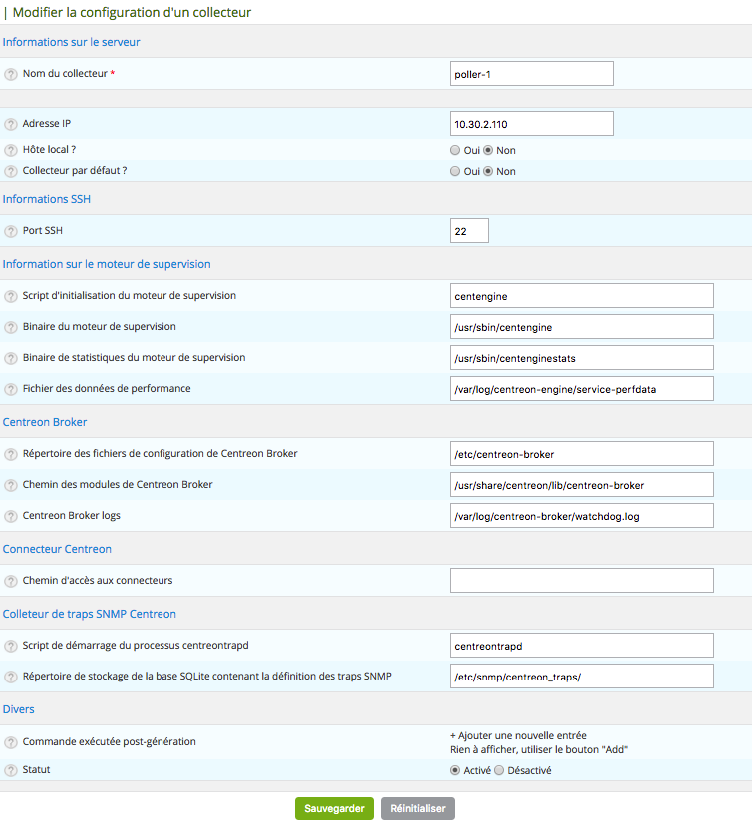
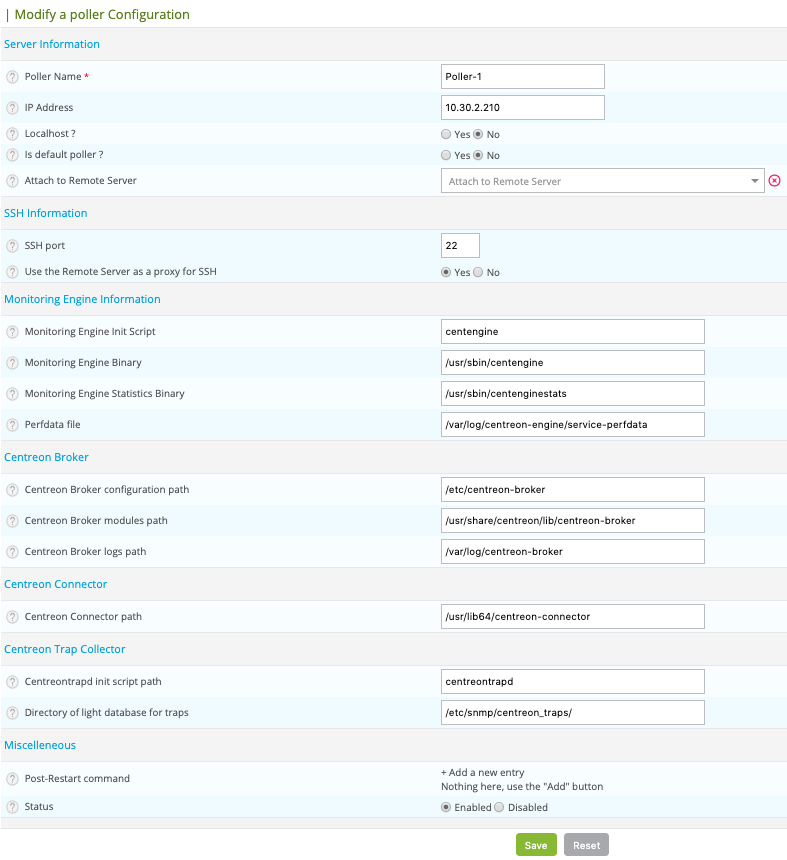
enh(remote-server): allow to use direct ssh connection to poller from central (#7680)
* enh(sql): add new field for nagios_server table
* enh(update): add new database field on update
* enh(form): add an option to make direct link to poller from central
* enh(centcore): use new option in centcore
* enh(doc): update documentation to explain this functionality

diff --git a/www/include/configuration/configServers/formServers.php b/www/include/configuration/configServers/formServers.php
@@ -155,14 +155,14 @@ if (strcmp($serverType, 'remote') ==  0) {
     );
     $form->addElement('select', 'http_method', _("HTTP Method"), $aMethod);
     $form->addElement('text', 'http_port', _("HTTP Port"), $attrsText3);
-    $Tab = array();
-    $Tab[] = $form->createElement('radio', 'no_check_certificate', null, _("Yes"), '1');
-    $Tab[] = $form->createElement('radio', 'no_check_certificate', null, _("No"), '0');
-    $form->addGroup($Tab, 'no_check_certificate', _("Do not check SSL certificate validation"), '&nbsp;');
-    $Tab = array();
-    $Tab[] = $form->createElement('radio', 'no_proxy', null, _("Yes"), '1');
-    $Tab[] = $form->createElement('radio', 'no_proxy', null, _("No"), '0');
-    $form->addGroup($Tab, 'no_proxy', _("Do not use proxy defined in global configuration"), '&nbsp;');
+    $tab = array();
+    $tab[] = $form->createElement('radio', 'no_check_certificate', null, _("Yes"), '1');
+    $tab[] = $form->createElement('radio', 'no_check_certificate', null, _("No"), '0');
+    $form->addGroup($tab, 'no_check_certificate', _("Do not check SSL certificate validation"), '&nbsp;');
+    $tab = array();
+    $tab[] = $form->createElement('radio', 'no_proxy', null, _("Yes"), '1');
+    $tab[] = $form->createElement('radio', 'no_proxy', null, _("No"), '0');
+    $form->addGroup($tab, 'no_proxy', _("Do not use proxy defined in global configuration"), '&nbsp;');
 }
 
 /*
@@ -174,6 +174,10 @@ $form->addElement('text', 'ns_ip_address', _("IP Address"), $attrsText);
 $form->addElement('text', 'init_script', _("Monitoring Engine Init Script"), $attrsText2);
 if (strcmp($serverType, 'poller') ==  0) {
     $form->addElement('select2', 'remote_id', _('Attach to Remote Server'), array(), $attrPoller1);
+    $tab = array();
+    $tab[] = $form->createElement('radio', 'remote_server_centcore_ssh_proxy', null, _("Yes"), '1');
+    $tab[] = $form->createElement('radio', 'remote_server_centcore_ssh_proxy', null, _("No"), '0');
+    $form->addGroup($tab, 'remote_server_centcore_ssh_proxy', _("Use the Remote Server as a proxy for SSH"), '&nbsp;');
 }
 $form->addElement('text', 'nagios_bin', _("Monitoring Engine Binary"), $attrsText2);
 $form->addElement('text', 'nagiostats_bin', _("Monitoring Engine Statistics Binary"), $attrsText2);
@@ -181,20 +185,20 @@ $form->addElement('text', 'nagios_perfdata', _("Perfdata file"), $attrsText2);
 
 $form->addElement('text', 'ssh_port', _("SSH port"), $attrsText3);
 
-$Tab = array();
-$Tab[] = $form->createElement('radio', 'localhost', null, _("Yes"), '1');
-$Tab[] = $form->createElement('radio', 'localhost', null, _("No"), '0');
-$form->addGroup($Tab, 'localhost', _("Localhost ?"), '&nbsp;');
+$tab = array();
+$tab[] = $form->createElement('radio', 'localhost', null, _("Yes"), '1');
+$tab[] = $form->createElement('radio', 'localhost', null, _("No"), '0');
+$form->addGroup($tab, 'localhost', _("Localhost ?"), '&nbsp;');
 
-$Tab = array();
-$Tab[] = $form->createElement('radio', 'is_default', null, _("Yes"), '1');
-$Tab[] = $form->createElement('radio', 'is_default', null, _("No"), '0');
-$form->addGroup($Tab, 'is_default', _("Is default poller ?"), '&nbsp;');
+$tab = array();
+$tab[] = $form->createElement('radio', 'is_default', null, _("Yes"), '1');
+$tab[] = $form->createElement('radio', 'is_default', null, _("No"), '0');
+$form->addGroup($tab, 'is_default', _("Is default poller ?"), '&nbsp;');
 
-$Tab = array();
-$Tab[] = $form->createElement('radio', 'ns_activate', null, _("Enabled"), '1');
-$Tab[] = $form->createElement('radio', 'ns_activate', null, _("Disabled"), '0');
-$form->addGroup($Tab, 'ns_activate', _("Status"), '&nbsp;');
+$tab = array();
+$tab[] = $form->createElement('radio', 'ns_activate', null, _("Enabled"), '1');
+$tab[] = $form->createElement('radio', 'ns_activate', null, _("Disabled"), '0');
+$form->addGroup($tab, 'ns_activate', _("Status"), '&nbsp;');
 
 /*
  * Extra commands
@@ -262,7 +266,8 @@ if (isset($_GET["o"]) && $_GET["o"] == SERVER_ADD) {
             "centreonbroker_module_path" => "/usr/share/centreon/lib/centreon-broker",
             "centreonbroker_logs_path" => "/var/log/centreon-broker",
             "init_script_centreontrapd" => "centreontrapd",
-            "snmp_trapd_path_conf" => "/etc/snmp/centreon_traps/"
+            "snmp_trapd_path_conf" => "/etc/snmp/centreon_traps/",
+            "remote_server_centcore_ssh_proxy" => '1'
         )
     );
 } else {

diff --git a/www/include/configuration/configServers/DB-Func.php b/www/include/configuration/configServers/DB-Func.php
@@ -368,7 +368,8 @@ function insertServer(array $data): int
     $rq = "INSERT INTO `nagios_server` (`name` , `localhost`, `ns_ip_address`, `ssh_port`, `nagios_bin`," .
         " `nagiostats_bin`, `init_system`, `init_script`, `init_script_centreontrapd`, `snmp_trapd_path_conf`, " .
         "`nagios_perfdata` , `centreonbroker_cfg_path`, `centreonbroker_module_path`, `centreonconnector_path`, " .
-        "`ssh_private_key`, `is_default`, `ns_activate`, `centreonbroker_logs_path`, `remote_id`) ";
+        "`ssh_private_key`, `is_default`, `ns_activate`, `centreonbroker_logs_path`, `remote_id`, " .
+        "`remote_server_centcore_ssh_proxy`) ";
     $rq .= "VALUES (";
     isset($data["name"]) && $data["name"] != null
         ? $rq .= "'" . htmlentities(trim($data["name"]), ENT_QUOTES, "UTF-8") . "', "
@@ -426,7 +427,14 @@ function insertServer(array $data): int
         : $rq .= "NULL,";
     isset($data["remote_id"]) && $data["remote_id"] != null
         ? $rq .= "'" . htmlentities(trim($data["remote_id"]), ENT_QUOTES, "UTF-8") . "' "
-        : $rq .= "NULL";
+        : $rq .= "NULL, ";
+    isset($data["remote_server_centcore_ssh_proxy"]["remote_server_centcore_ssh_proxy"])
+        && $data["remote_server_centcore_ssh_proxy"]["remote_server_centcore_ssh_proxy"] != null
+        ? $rq .= "'" . htmlentities(
+            $data["remote_server_centcore_ssh_proxy"]["remote_server_centcore_ssh_proxy"],
+            ENT_QUOTES,
+            "UTF-8"
+        ) . "'  " : $rq .= "NULL";
     $rq .= ")";
 
     $pearDB->query($rq);
@@ -443,7 +451,7 @@ function insertServer(array $data): int
     $fields = CentreonLogAction::prepareChanges($data);
     $centreon->CentreonLogAction->insertLog(
         "poller",
-        isset($poller["MAX(id)"]) ? $poller["MAX(id)"] : null,
+        $poller['last_id'] ?? null,
         CentreonDB::escape($data["name"]),
         "a",
         $fields
@@ -620,7 +628,9 @@ function updateServer(int $id, $data): void
     isset($data["remote_id"]) && $data["remote_id"] != null
         ? $rq .= "remote_id = '" . htmlentities(trim($data["remote_id"]), ENT_QUOTES, "UTF-8") . "',  "
         : $rq .= "remote_id = NULL, ";
-    $rq .= "ns_activate = '" . $data["ns_activate"]["ns_activate"] . "' ";
+    $rq .= "ns_activate = '" . $data["ns_activate"]["ns_activate"] . "', ";
+    $rq .= "remote_server_centcore_ssh_proxy = '"
+        . $data["remote_server_centcore_ssh_proxy"]["remote_server_centcore_ssh_proxy"] . "' ";
     $rq .= "WHERE id = '" . $id . "'";
     $pearDB->query($rq);
 

diff --git a/www/include/configuration/configServers/help.php b/www/include/configuration/configServers/help.php
@@ -44,5 +44,11 @@ $help['no_check_certificate'] = dgettext(
 );
 $help['no_proxy'] = dgettext(
     "help",
-    "If checked, it won't  use the proxy configured in 'Administration > Parameters > Centreon UI' to connect to the Remote Server."
+    "If checked, it won't use the proxy configured in 'Administration > Parameters > Centreon UI' "
+        . "to connect to the Remote Server."
+);
+$help['remote_server_centcore_ssh_proxy'] = dgettext(
+    "help",
+    "If checked, the Central server will send configuration and external commands directly to the poller "
+        . "and will not use the Remote Server as a proxy."
 );

diff --git a/doc/en/administration_guide/poller/add_manually_a_poller.rst b/doc/en/administration_guide/poller/add_manually_a_poller.rst
@@ -5,7 +5,7 @@ Manually configuring a poller
 =============================
 
 Configuring the server
-=======================
+======================
 
 Once the installation is complete, you must integrate this remote poller into the Centreon configuration.
 
@@ -20,6 +20,13 @@ Once the installation is complete, you must integrate this remote poller into th
 .. image:: /images/user/configuration/10advanced_configuration/07addpoller.png
    :align: center
 
+.. note::
+    If your poller is attached to a Remote Server, please choose this one in the **Attach to Remote Server** list.
+
+.. note::
+    If your poller is attached to a Remote Server, but you prefer to send externals commands and configuration
+    directly from the Central server to this poller, please disable the **Use the Remote Server as a proxy for SSH**
+    option.
 
 #. Go to the **Configuration > Pollers > Engine configuration** menu.
 #. Select your last added configuration.

diff --git a/doc/fr/administration_guide/poller/add_manually_a_poller.rst b/doc/fr/administration_guide/poller/add_manually_a_poller.rst
@@ -20,6 +20,15 @@ Une fois l'installation réalisée, il faut intégrer ce collecteur distant dans
 .. image:: /images/guide_utilisateur/configuration/10advanced_configuration/07addpoller.png
    :align: center
 
+.. note::
+    Si votre collecteur est rattaché à un Remote Server, choisissez ce dernier dans la liste **Attach to Remote
+    Server**.
+
+.. note::
+    Si votre collecteur est rattaché à un Remote Server, mais que vous souhaitez envoyer directement la configuration
+    ainsi que les fichiers de configuration directement depuis le serveur Centreon central vers ce collecteur,
+    désactivez l'option **Use the Remote Server as a proxy for SSH**.
+
 #. Rendez-vous dans le menu **Configuration > Collecteur > Configuration du moteur de collecte**
 #. Sélectionnez la configuration qui correspond au dernier poller ajouté
 #. Modifiez les paramètres suivants, puis sauvegardez :
